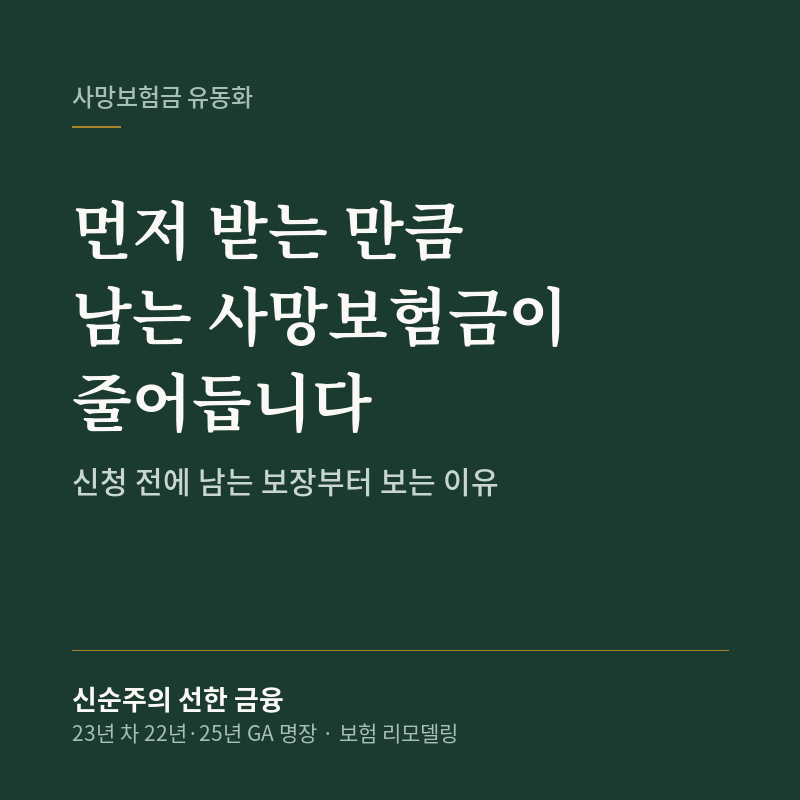
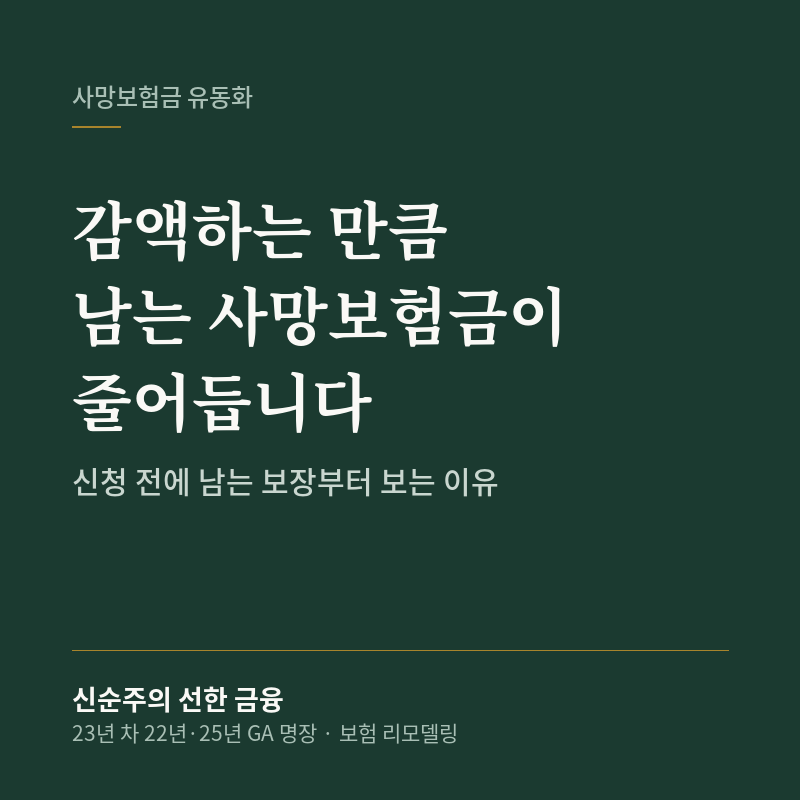
fix(BW38): 38호 유동화 설명을 「감액 → 감액분 해약환급금을 연금 형태로」로 — 본진 PAMS 반송(11/10) 반영 (#140)
- 네이버 사진 설정: 썸네일 「먼저 받는 만큼」→「감액하는 만큼」, 비교표 「생전에 나누어 받는 몫」→「감액할 비율」, 포인트 1 「생전에 받는 대신」→「감액하고 감액분의 해약환급금을 나누어 받는」 + 5장 재렌더(3·4번은 변화 없음)
- 원고 사본 main.md · naver.txt 를 DB 수정본과 동기화, meta.json summary·key_points[0] 동일 반영
- meta.json verify_claims 에 12.23 자료 9쪽 Q3·Q4 · 10쪽 Q8·Q9(감액·해약환급금 재원) 추가
- DB(premium_articles) 수정은 이 PR 밖에서 완료 — checkArticleBySlug level clean(A 0 · 미확인 B 0)

Changed region(s): [[0.0938, 0.25, 0.5938, 0.3438]]

diff --git a/assets/main/death-benefit-liquidation-remaining-coverage/main.md b/assets/main/death-benefit-liquidation-remaining-coverage/main.md
@@ -1,4 +1,4 @@
-사망보험금 유동화 대상이라는 안내를 받고, 신청하면 무엇이 달라지는지 묻는 분이 늘었습니다. 금융위원회·금융감독원은 2025년 12월 자료에서, 2026년 1월 2일부터 유동화 상품을 생명보험회사 전체(19개사 중 대상 계약이 없는 3개사 제외)로 넓히고, 대상 계약 약 60만 건의 계약자에게 2025년 12월 24일부터 보험회사별로 문자 등으로 따로 안내한다고 밝혔습니다(1쪽). 결론부터 말씀드리면 유동화는 종신보험의 사망보험금 가운데 고른 비율만큼을 살아 있는 동안 나누어 받는 제도이고, 그만큼 사망보험금은 줄어듭니다. 그래서 신청 전에 먼저 볼 것은 받을 금액이 아니라, 줄어든 뒤 가족에게 남는 사망보장이 전 계약을 합쳐 얼마인지입니다.
+사망보험금 유동화 대상이라는 안내를 받고, 신청하면 무엇이 달라지는지 묻는 분이 늘었습니다. 금융위원회·금융감독원은 2025년 12월 자료에서, 2026년 1월 2일부터 유동화 상품을 생명보험회사 전체(19개사 중 대상 계약이 없는 3개사 제외)로 넓히고, 대상 계약 약 60만 건의 계약자에게 2025년 12월 24일부터 보험회사별로 문자 등으로 따로 안내한다고 밝혔습니다(1쪽). 결론부터 말씀드리면 유동화는 종신보험의 사망보험금 가운데 고른 비율만큼을 감액하고, 그 감액분에 해당하는 해약환급금을 살아 있는 동안 연금 형태로 나누어 받는 제도이며, 그만큼 사망보험금은 줄어듭니다. 그래서 신청 전에 먼저 볼 것은 받을 금액이 아니라, 줄어든 뒤 가족에게 남는 사망보장이 전 계약을 합쳐 얼마인지입니다.
 
 이 글은 아래 출처에 적은 금융위원회 보도자료 두 건을 근거로, 유동화의 구조와 신청 요건, 신청 뒤 되돌릴 수 있는 범위를 정리합니다.
 
@@ -6,18 +6,18 @@
 
 | 용어 | 뜻 |
 |---|---|
-| 사망보험금 유동화 | 사망 시 지급될 보험금 가운데 일부를 살아 있는 동안 연금 형태로 나누어 받게 하는 제도입니다 |
-| 유동화 비율 | 사망보험금 가운데 생전에 나누어 받기로 고르는 몫입니다 |
-| 유동화 기간 | 그 몫을 나누어 받는 기간으로, 연 단위로 정합니다 |
+| 사망보험금 유동화 | 사망보험금을 일부 감액하고, 감액분에 해당하는 해약환급금을 살아 있는 동안 연금 형태로 나누어 받게 하는 제도입니다 |
+| 유동화 비율 | 사망보험금 가운데 감액하기로 고르는 비율로, 감액분에 해당하는 해약환급금이 유동화 금액의 재원이 됩니다 |
+| 유동화 기간 | 유동화 금액을 나누어 받는 기간으로, 연 단위로 정합니다 |
 | 제도성 특약 | 연금전환 특약이 없는 과거 종신보험에도 유동화가 가능하도록 일괄로 붙이는 특약입니다 |
 
-## 유동화는 사망보장을 앞당겨 쓰는 구조입니다
+## 유동화는 사망보험금을 감액해 해약환급금을 나누어 받는 구조입니다
 
-금융위원회는 2025년 8월 보도자료에서 유동화를 사망보험금을 생전에 활용 가능한 연금 자산으로 전환해 소득 공백에 대응하도록 지원하는 제도로 설명했습니다(2쪽). 새로 돈이 생기는 구조가 아니라, 원래 사망 시 지급될 보험금 가운데 일부를 먼저 받는 구조입니다. 같은 자료의 예시도 유동화 비율로 70%를 고르면 사망보험금 30%가 남는 모습으로 그렸습니다(8쪽).
+금융위원회는 2025년 8월 보도자료에서 유동화를 사망보험금을 생전에 활용 가능한 연금 자산으로 전환해 소득 공백에 대응하도록 지원하는 제도로 설명했습니다(2쪽). 새로 돈이 생기는 구조가 아니라, 사망보험금 일부를 감액하고 그 감액분에 해당하는 해약환급금을 나누어 받는 구조입니다(2025년 12월 자료 9쪽). 같은 자료의 예시도 유동화 비율로 70%를 고르면 사망보험금 30%가 남는 모습으로 그렸습니다(8쪽).
 
 비율의 상한도 정해져 있습니다. 사망보험금의 90%를 넘지 않는 범위에서 신청할 수 있고, 일시금 형태로는 신청할 수 없으며, 기간은 연 단위로 최소 2년 이상입니다(6쪽). 자료는 유동화 신청에 따라 고객이 따로 부담하는 비용은 없다고 적었습니다(6쪽). 비율과 기간은 아무렇게나 고를 수 있는 것도 아닙니다. 유동화로 받는 금액의 총액은 납입한 보험료의 100%를 넘도록 정해야 하고, 총액이 기납입보험료에 못 미치는 조건은 설정할 수 없습니다(6쪽).
 
-비율과 기간을 고르는 방식은 결과를 크게 바꿉니다. 같은 자료의 예시는 계약의 예정이율과 유동화를 시작하는 나이에 따라 받는 금액이 달라진다고 설명합니다(8쪽). 비율을 높이면 생전에 받는 몫이 커지는 대신 남는 사망보험금이 작아지고, 기간을 짧게 잡으면 한 해에 받는 몫이 커지는 대신 일찍 끝납니다. 어느 조합이 맞는지는 이 계약 하나가 아니라, 가족에게 남겨야 할 사망보장이 다른 계약에 얼마나 있는지에 따라 달라집니다.
+비율과 기간을 고르는 방식은 결과를 크게 바꿉니다. 같은 자료의 예시는 계약의 예정이율과 유동화를 시작하는 나이에 따라 받는 금액이 달라진다고 설명합니다(8쪽). 비율을 높이면 감액분이 커져 나누어 받는 금액이 커지는 대신 남는 사망보험금이 작아지고, 기간을 짧게 잡으면 한 해에 받는 몫이 커지는 대신 일찍 끝납니다. 어느 조합이 맞는지는 이 계약 하나가 아니라, 가족에게 남겨야 할 사망보장이 다른 계약에 얼마나 있는지에 따라 달라집니다.
 
 ## 내 계약이 대상인지 가르는 기준
 
@@ -36,7 +36,7 @@
 
 자료는 고령층을 대상으로 하는 새 제도라는 점을 들어 보호 장치를 두었다고 밝혔습니다. 유동화금액을 받은 날부터 15일, 신청일부터 30일 가운데 먼저 오는 날까지 철회할 수 있고, 보험사가 중요한 내용을 설명하지 않았다면 3개월 안에 취소할 수 있습니다(4쪽). 보험사는 유동화 비율과 기간에 따른 지급금액 비교결과표를 제공하도록 계획됐습니다(4쪽). 철회 기간이 지나면 줄어든 사망보험금을 원래대로 되돌리는 길은 자료에 없습니다. 비교결과표 한 장으로 결정하기 어려운 이유도 여기에 있습니다. 표는 비율과 기간에 따라 받는 금액을 보여 주지만, 다른 계약에 남아 있는 사망보장까지 보여 주지는 않습니다.
 
-정리하면, 사망보험금 유동화는 사망보험금 가운데 고른 비율을 생전에 나누어 받는 대신 그만큼 사망보장이 줄어드는 제도입니다. 대상은 금리 확정형, 사망보험금 상한 이하, 납입 완료, 계약자와 피보험자 동일, 대출 잔액 없음, 월적립식, 만 55세 이상 같은 요건으로 갈리고, 철회는 정해진 짧은 기간 안에서만 가능합니다.
+정리하면, 사망보험금 유동화는 고른 비율만큼 사망보험금을 감액하고 그 감액분에 해당하는 해약환급금을 생전에 나누어 받는 대신, 그만큼 사망보장이 줄어드는 제도입니다. 대상은 금리 확정형, 사망보험금 상한 이하, 납입 완료, 계약자와 피보험자 동일, 대출 잔액 없음, 월적립식, 만 55세 이상 같은 요건으로 갈리고, 철회는 정해진 짧은 기간 안에서만 가능합니다.
 
 ## 남는 사망보장은 전 계약을 합쳐야 보입니다
 
